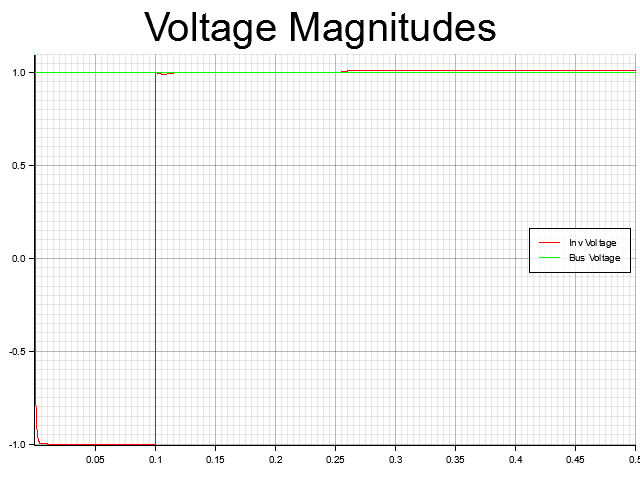
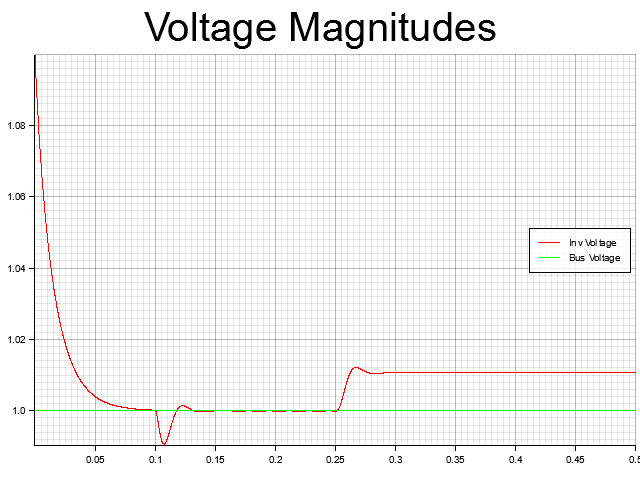
Updated line parameters and tested LineToBus object in dVOC RL sim

Changed region(s): [[0.0, 0.125, 1.0, 0.9375]]

diff --git a/src/bin/dvoc_rl_sim.rs b/src/bin/dvoc_rl_sim.rs
@@ -30,6 +30,7 @@ fn main() -> Result<(), Box<dyn std::error::Error>> {
     let rf = 0.8;  // filter-side resistance
     let lf = 1.5e-3;  // filter-side inductance
 
+    let i_base = 3. * v_nom / s_rated;
     let z_base = 3. * v_nom * v_nom / s_rated;
 
     let mut inv = build_dvoc_controller(v_nom, w_nom, xi, c);
@@ -37,8 +38,9 @@ fn main() -> Result<(), Box<dyn std::error::Error>> {
     inv.x[(0)] = 1.1;  // Initialize inverter voltage to be off from v_nom to test presync
     let mut gfm = build_gfm(&mut inv, gamma);  // Place the dVOC controller within a GFM interface object
 
-    let mut line: RlBranch<f32> = build_rl_branch(w_nom, rf / z_base, lf / z_base);
+    let mut line: RlBranch<f32> = build_rl_branch(i_base, w_nom, rf / z_base, lf / z_base);
     let mut bus: AcVoltSrc<f32> = build_ac_volt_src(v_nom, w_nom);
+    let mut line_to_bus: LineToBus<f32, 4, 2> = build_line_to_bus(&mut line, bus);  // TODO: Determine if these references need to be mutable and try to make it so that LTB can build its own components
 
     /*
     RUNNING DYNAMICAL SIMULATION
@@ -78,11 +80,11 @@ fn main() -> Result<(), Box<dyn std::error::Error>> {
         v_inv = gfm.get_pu_voltage();
         v_values[step as usize] = (t, v_inv[0]);
         theta_values[step as usize] = (t, v_inv[1]);
-        vg_values[step as usize] = (t, bus.x[(0)]);
-        thetag_values[step as usize] = (t, bus.x[(1)]);
-        ia_values[step as usize] = (t, line.x[(0)]);
-        ib_values[step as usize] = (t, line.x[(1)]);
-        delta = v_inv[1] - bus.x[(1)];
+        vg_values[step as usize] = (t, line_to_bus.x[(0)]);
+        thetag_values[step as usize] = (t, line_to_bus.x[(1)]);
+        ia_values[step as usize] = (t, line_to_bus.x[(2)]);
+        ib_values[step as usize] = (t, line_to_bus.x[(3)]);
+        delta = v_inv[1] - line_to_bus.x[(1)];
         if delta > (1. / f_nom) {
             delta = -(1. / f_nom) + delta;
         } else if delta < -(1. / f_nom - 1.0e-4) {
@@ -91,11 +93,11 @@ fn main() -> Result<(), Box<dyn std::error::Error>> {
         delta_values[step as usize] = (t, delta);
 
         // Sample the current
-        i_alpha_sample = line.x[(0)];
-        i_beta_sample = line.x[(1)];
+        i_alpha_sample = line_to_bus.x[(2)];
+        i_beta_sample = line_to_bus.x[(3)];
         // Sample the grid
-        v_grid_sample = bus.x[(0)];
-        theta_grid_sample = bus.x[(1)] * bus.w_nom;
+        v_grid_sample = line_to_bus.x[(0)];
+        theta_grid_sample = line_to_bus.x[(1)] * line_to_bus.bus.w_nom;
         let v_grid_sample_alpha_beta = AlphaBeta::from_polar(v_grid_sample, theta_grid_sample);
         // Get alpha-beta gfm voltage
         let v_inv_alpha_beta = AlphaBeta::from_polar(v_inv[0], v_inv[1] * gfm.ctrl.get_w_nom());
@@ -103,31 +105,25 @@ fn main() -> Result<(), Box<dyn std::error::Error>> {
         // Step the system
         for n in 0..cont_n_steps {
             // Calculate power
-            let i = AlphaBeta::from_ab_(line.x[(0)], line.x[(1)]);
+            let i = AlphaBeta::from_ab_(line_to_bus.x[(2)], line_to_bus.x[(3)]);
             (p, q) = calc_ab_power(&v_inv_alpha_beta, &i);
             p_values[(cont_n_steps*step + n) as usize] = (t + (n as f32)*cont_dt, p);
             q_values[(cont_n_steps*step + n) as usize] = (t + (n as f32)*cont_dt, q);
             
             // Step the system
-            if t > t_switch {  // Get inductor grid-side voltage based on switch state
+            if (t > t_switch) & !line_to_bus.switch_is_closed()  {  // Get inductor grid-side voltage based on switch state
                 gfm.disable_presync();
-                v_grid = bus.x[(0)];  // TODO: rename this for clarity
-                theta_grid = bus.x[(1)] * bus.w_nom;
-                v_to_alpha_beta = AlphaBeta::from_polar(v_grid, theta_grid);
-            } else {
-                v_to_alpha_beta = AlphaBeta::from_polar(v_inv[0], v_inv[1] * gfm.ctrl.get_w_nom());
+                line_to_bus.close_switch();
             }
-            line.step(cont_dt, [v_inv_alpha_beta.alpha, v_inv_alpha_beta.beta, 
-                                   v_to_alpha_beta.alpha, v_to_alpha_beta.beta]);
-            bus.step_(cont_dt);
+            line_to_bus.step(cont_dt, [v_inv_alpha_beta.alpha, v_inv_alpha_beta.beta]);
         }
 
         // Step the controller after a z^-1 delay
         gfm.gfm_step(dt, [i_alpha_sample, i_beta_sample], [v_grid_sample_alpha_beta.alpha, v_grid_sample_alpha_beta.beta]);
     }
     println!("v: {}, theta: {}", inv.x[(0)], inv.x[(1)]);
-    println!("ia: {}, ib: {}", line.x[(0)], line.x[(1)]);
-    println!("vg: {}, thetag: {}", bus.x[(0)], bus.x[(1)]);
+    println!("ia: {}, ib: {}", line_to_bus.x[(2)], line_to_bus.x[(3)]);
+    println!("vg: {}, thetag: {}", line_to_bus.x[(0)], line_to_bus.x[(1)]);
     println!("p: {}, q: {}", p, q);
 
     /*

diff --git a/src/bin/dvoc_lcl_dlvc_sim.rs b/src/bin/dvoc_lcl_dlvc_sim.rs
@@ -55,7 +55,7 @@ fn main() -> Result<(), Box<dyn std::error::Error>> {
     let mut gfm = build_gfm(&mut inv, gamma);  // Place the dVOC controller within a GFM interface object
     let mut voltage_loop = build_double_loop_voltage_controller(v_nom, kp_v, ki_v, kp_i, ki_i, lf / z_base, cf * z_base, i_base, -i_base);
 
-    let mut line: LclFilter<f32> = build_lcl_filter(w_nom, v_nom, rf / z_base, lf / z_base, rc / z_base, cf * z_base, rg / z_base, lg / z_base);
+    let mut line: LclFilter<f32> = build_lcl_filter(w_nom, i_base, v_nom, rf / z_base, lf / z_base, rc / z_base, cf * z_base, rg / z_base, lg / z_base);
     line.x[(2)] = inv_ab.alpha;  // Initialize capacitor voltage to align with the inverter voltage
     line.x[(3)] = inv_ab.beta;
     let mut bus: AcVoltSrc<f32> = build_ac_volt_src(v_nom, w_nom);
@@ -169,7 +169,7 @@ fn main() -> Result<(), Box<dyn std::error::Error>> {
         // Step the controller after a z^-1 delay
         dv_dt_gfm = gfm.gfm_step(dt, [i_alpha_sample, i_beta_sample], [v_grid_sample_alpha_beta.alpha, v_grid_sample_alpha_beta.beta]);
         v_cap = line.get_voltage();
-        i_fr = line.get_from_current();
+        i_fr = line.get_fr_current();
         i_to = line.get_to_current();
         sin_cos = SinCos::from_theta(v_gfm[(1)] * w_nom);
         vc_dq = DQZ::from_ab_(v_cap[0], v_cap[1], &sin_cos);

diff --git a/src/bin/dvoc_lcl_sim.rs b/src/bin/dvoc_lcl_sim.rs
@@ -33,6 +33,7 @@ fn main() -> Result<(), Box<dyn std::error::Error>> {
     let rg = 0.4;  // grid-side resistance
     let lg = 1.5e-3;  // grid-side inductance
 
+    let i_base = 3. * v_nom / s_rated;
     let z_base = 3. * v_nom * v_nom / s_rated;
 
     let mut inv = build_dvoc_controller(v_nom, w_nom, xi, c);
@@ -41,7 +42,7 @@ fn main() -> Result<(), Box<dyn std::error::Error>> {
     let inv_ab = AlphaBeta::from_polar(inv.x[(0)], inv.x[(1)]);  // Grab alpha-beta inv voltage for initializing the LCL filter
     let mut gfm = build_gfm(&mut inv, gamma);  // Place the dVOC controller within a GFM interface object
 
-    let mut line: LclFilter<f32> = build_lcl_filter(w_nom, v_nom, rf / z_base, lf / z_base, rc / z_base, cf * z_base, rg / z_base, lg / z_base);
+    let mut line: LclFilter<f32> = build_lcl_filter(w_nom, i_base, v_nom, rf / z_base, lf / z_base, rc / z_base, cf * z_base, rg / z_base, lg / z_base);
     line.x[(2)] = inv_ab.alpha;  // Initialize capacitor voltage to align with the inverter voltage
     line.x[(3)] = inv_ab.beta;
     let mut bus: AcVoltSrc<f32> = build_ac_volt_src(v_nom, w_nom);

diff --git a/src/bin/droop_rl_sim.rs b/src/bin/droop_rl_sim.rs
@@ -32,13 +32,14 @@ fn main() -> Result<(), Box<dyn std::error::Error>> {
     let rf = 0.8;  // filter-side resistance
     let lf = 1.5e-3;  // filter-side inductance
 
+    let i_base = 3. * v_nom / s_rated;
     let z_base = 3. * v_nom * v_nom / s_rated;
 
     let mut inv = build_droop_controller(v_nom, w_nom, mp, mq, w_c);
     inv.x[(0)] = 0.005;  // Initialize inverter angle to be off from the grid to test presync
     let mut gfm = build_gfm(&mut inv, gamma);  // Place the droop controller within a GFM interface object
 
-    let mut line: RlBranch<f32> = build_rl_branch(w_nom, rf / z_base, lf / z_base);
+    let mut line: RlBranch<f32> = build_rl_branch(i_base, w_nom, rf / z_base, lf / z_base);
     let mut bus: AcVoltSrc<f32> = build_ac_volt_src(v_nom, w_nom);
 
     /*

diff --git a/src/main.rs b/src/main.rs
@@ -53,7 +53,7 @@ fn main() -> Result<(), Box<dyn std::error::Error>> {
     let mut gfm = build_gfm(&mut inv, gamma);  // Place the dVOC controller within a GFM interface object
     let mut voltage_loop = build_double_loop_voltage_controller(v_nom, kp_v, ki_v, kp_i, ki_i, lf, cf, i_base, -i_base);
 
-    let mut line: LclFilter<f32> = build_lcl_filter(w_nom, v_nom, rf / z_base, lf / z_base, rc / z_base, cf / z_base, rg / z_base, lg / z_base);
+    let mut line: LclFilter<f32> = build_lcl_filter(w_nom, i_base, v_nom, rf / z_base, lf / z_base, rc / z_base, cf / z_base, rg / z_base, lg / z_base);
     let mut bus: AcVoltSrc<f32> = build_ac_volt_src(v_nom, w_nom);
 
     /*
